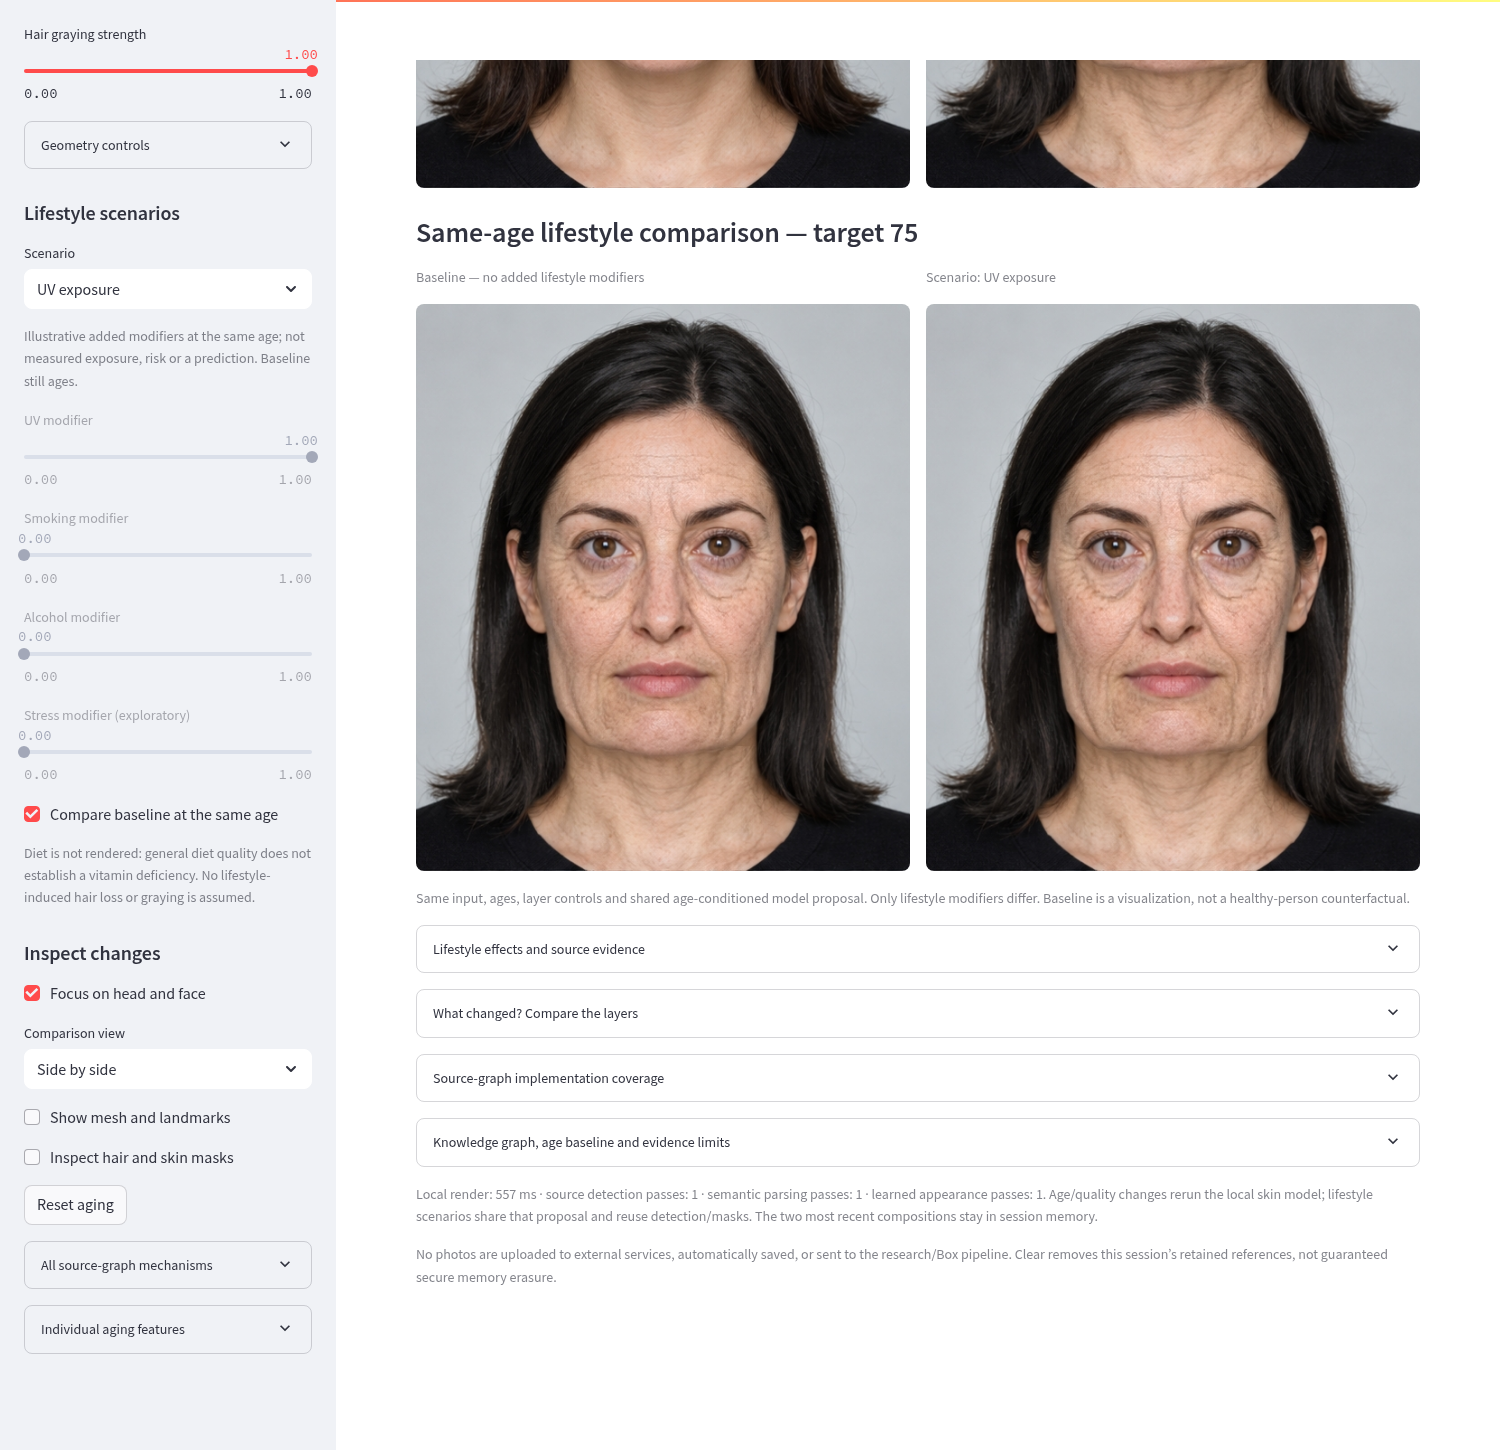
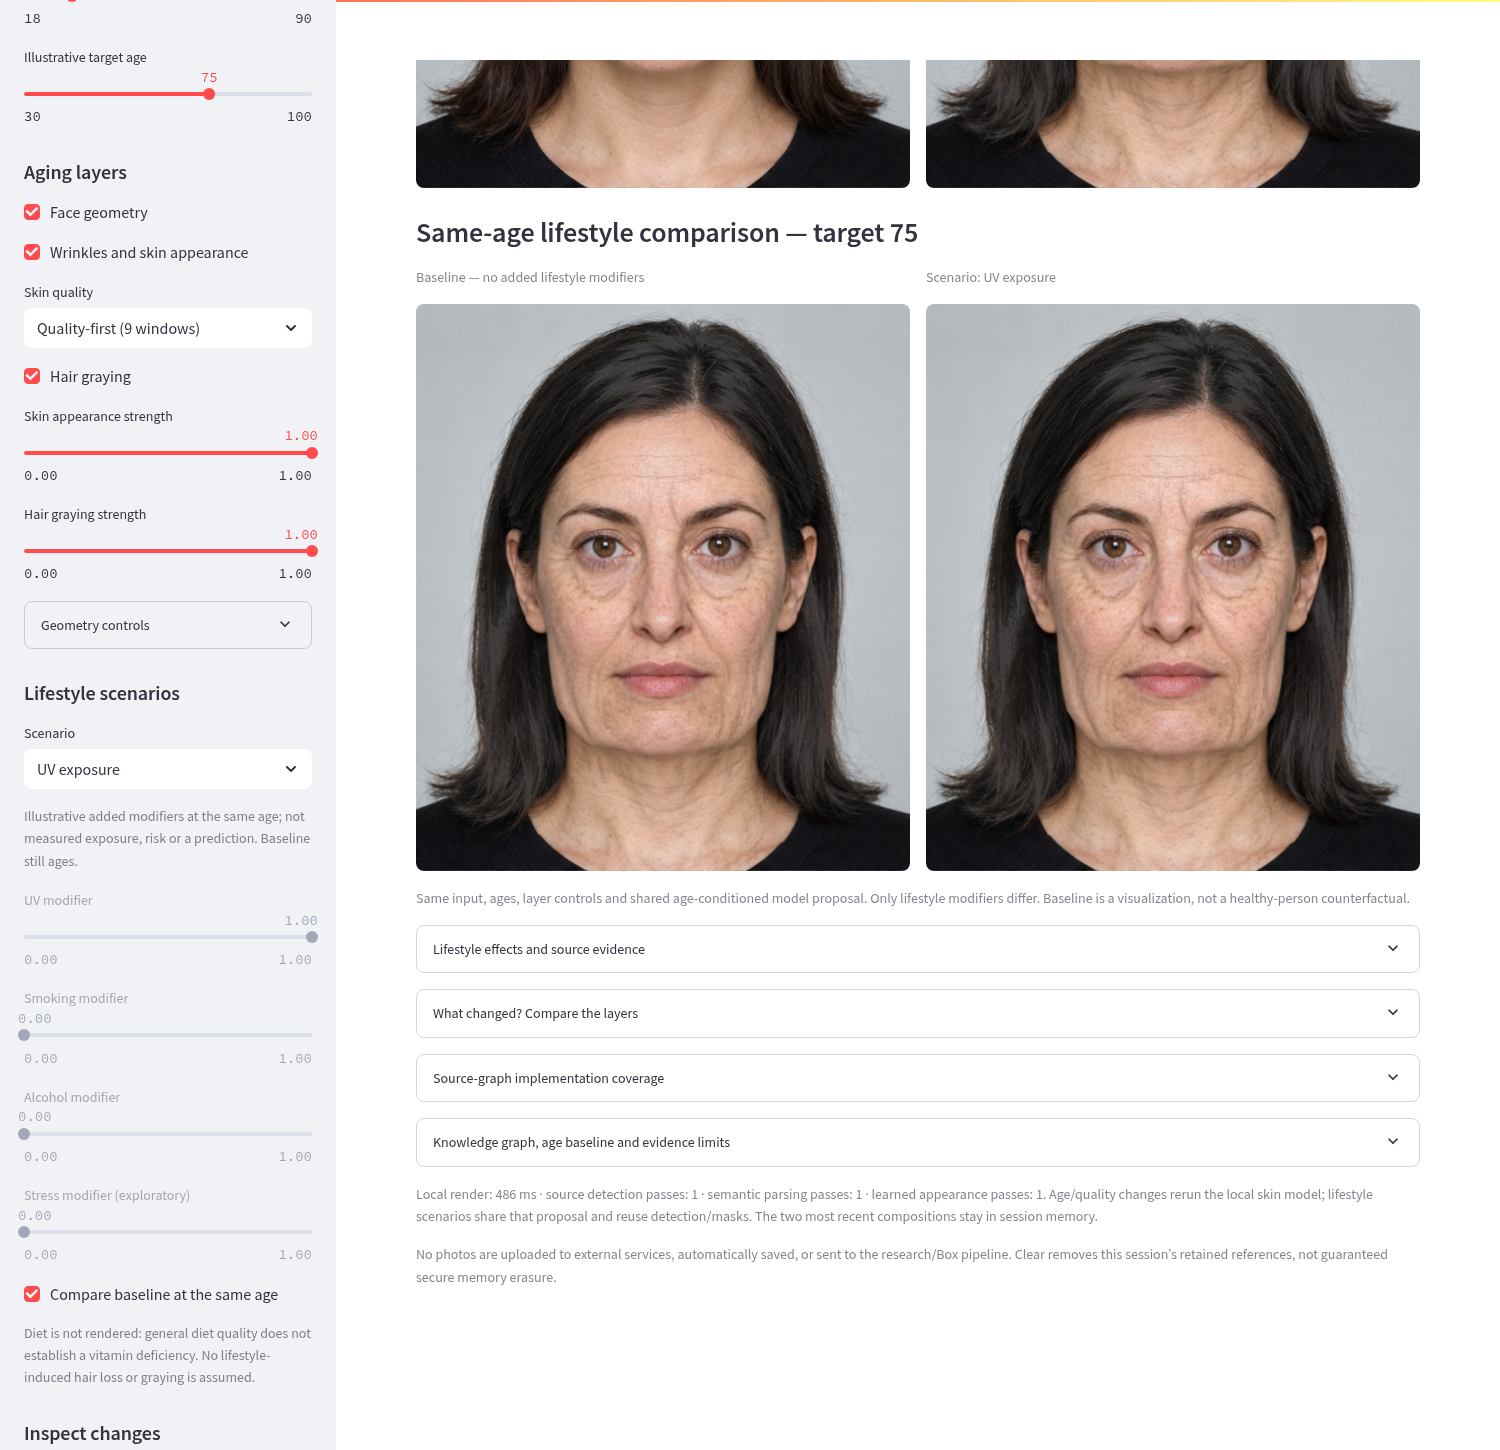
Refine ash-gray hair and soften stacked skin aging artifacts

diff --git a/experiments/geometry_renderer/mechanism_layers.py b/experiments/geometry_renderer/mechanism_layers.py
@@ -41,7 +41,7 @@ def volume_displacement(points,face_count,plan):
     return delta
 
 
-def render_surface(image,points,plan,skin_mask=None):
+def render_surface(image,points,plan,skin_mask=None,*,learned_detail=False):
     mask=skin_region_mask(image.shape,points)
     if skin_mask is not None: mask*=np.clip(skin_mask,0,1)
     if not mask.any(): return image.copy(),{'operators':{},'mode':'explicit_surface_proxies'}
@@ -56,7 +56,11 @@ def render_surface(image,points,plan,skin_mask=None):
         before=out.copy();out=np.clip(out+change*a[...,None],0,255)
         operators[name]={'features':list(ids),'changed_pixels':int(np.any(np.rint(out)!=np.rint(before),axis=2).sum()),
           'interpretation':'authored phenotype proxy, not clinical severity'}
-    strength=score(plan,'under_eye_circles')
+    # A learned proposal already contains texture and eye shading. Avoid
+    # stacking synthetic grain/contrast and another full eye shadow over it.
+    texture_gain=.25 if learned_detail else 1.
+    eye_gain=.55 if learned_detail else 1.
+    strength=score(plan,'under_eye_circles')*eye_gain
     eye=sum(gauss(p[i]+[0,fh*.045],.105,.035) for i in (145,374))
     apply('under_eye_circles',-eye[...,None]*np.array([13,14,10])*strength,('under_eye_circles',))
     rng=np.random.default_rng(9817)
@@ -71,7 +75,7 @@ def render_surface(image,points,plan,skin_mask=None):
     noise=rng.normal(0,1,lum.shape).astype(np.float32)
     grain=cv2.GaussianBlur(noise,(0,0),.55)-cv2.GaussianBlur(noise,(0,0),2)
     tex=max(score(plan,n) for n in SURFACE_GROUPS['surface_texture'])
-    apply('surface_texture',np.repeat((detail*.28+grain*2.8)[...,None],3,axis=2)*tex,SURFACE_GROUPS['surface_texture'])
+    apply('surface_texture',np.repeat((detail*.28+grain*2.8)[...,None],3,axis=2)*tex*texture_gain,SURFACE_GROUPS['surface_texture'])
     dull=score(plan,'dull_skin_tone')
     apply('dullness',((lum[...,None]-roi)*.10-2)*dull,('dull_skin_tone',))
     vascular=max(score(plan,n) for n in SURFACE_GROUPS['vascular'])
@@ -87,6 +91,7 @@ def render_surface(image,points,plan,skin_mask=None):
     apply('vascular',(cheeks*.25+vessel)[...,None]*np.array([9,-3,-3])*vascular,SURFACE_GROUPS['vascular'])
     result=image.copy();result[y0:y1,x0:x1]=np.rint(out).clip(0,255).astype(np.uint8)
     return result,{'operators':operators,'mode':'explicit_surface_proxies',
+      'learned_detail_present':bool(learned_detail),'texture_gain':texture_gain,'eye_gain':eye_gain,
       'nodular_elastosis_representation':'coarse_surface_proxy_not_nodules'}
 
 

diff --git a/experiments/geometry_renderer/iterate_naturalness.py b/experiments/geometry_renderer/iterate_naturalness.py
@@ -13,7 +13,7 @@ from hashlib import sha256
 def main():
     parser=argparse.ArgumentParser(description=__doc__)
     parser.add_argument('--name',required=True)
-    parser.add_argument('--reference',choices=('v03','v040'),default='v03')
+    parser.add_argument('--reference',choices=('v03','v040','v041'),default='v03')
     args=parser.parse_args()
     if not args.name.replace('_','').replace('-','').isalnum():parser.error('simple experiment name required')
     import cv2,numpy as np
@@ -29,7 +29,7 @@ def main():
     cache=Path(os.environ.get('AVATAR_SYNTHETIC_CACHE',str(Path.home()/'.cache/avatar/synthetic-iterations')));cache.mkdir(parents=True,exist_ok=True)
     output=root/'validation/naturalness_iterations'/args.name;output.mkdir(parents=True,exist_ok=True)
     sheet=Image.new('RGB',(1536,64+560*4),'white');draw=ImageDraw.Draw(sheet);font=ImageFont.load_default(size=22)
-    reference_label='v0.4.0 released' if args.reference=='v040' else 'v0.3 reference'
+    reference_label={'v03':'v0.3 reference','v040':'v0.4.0 released','v041':'v0.4.1 previous'}[args.reference]
     for x,title in enumerate(('Synthetic input',reference_label,'Current candidate')):draw.text((x*512+10,18),title,fill='black',font=font)
     report={'experiment':args.name,'reference':args.reference,'target':75,'source_age':30,'samples':[],
         'source_code_sha256':{n:sha256((root/n).read_bytes()).hexdigest() for n in ('hair_layers.py','mechanism_layers.py','skin_layers.py','pipeline.py')}}
@@ -44,7 +44,7 @@ def main():
         result=render_local_aging(prepared,regions,30,75,lifestyle={'uv_exposure':0.,'smoking':0.},learned_proposal=proposal)
         bounds=head_crop_bounds(prepared);before=crop_view(prepared.image,bounds);after=crop_view(result.image,bounds)
         Image.fromarray(after).save(output/f'{item["id"]}_age75.png')
-        reference_dir='validation/naturalness_iterations/source_locks_D' if args.reference=='v040' else 'validation/synthetic_v03'
+        reference_dir={'v03':'validation/synthetic_v03','v040':'validation/naturalness_iterations/source_locks_D','v041':'validation/naturalness_iterations/hair_review_v041'}[args.reference]
         reference=np.asarray(Image.open(root/reference_dir/f'{item["id"]}_age75.png').convert('RGB'))
         row=64+index*560
         for column,pixels in enumerate((before,reference,after)):

diff --git a/experiments/geometry_renderer/hair_layers.py b/experiments/geometry_renderer/hair_layers.py
@@ -207,7 +207,7 @@ def gray_hair(image: np.ndarray, mask: np.ndarray, strength: float, *, seed: int
     feather=max(3.,min(10.,min(image.shape[:2])*.012))
     core=support & (distance>feather+2) & (mask>.5)
     if core.sum()<32:
-        metrics.update(mode='conservative_tonal_gray',reason='no_reliable_hair_interior')
+        metrics.update(mode='shadow_preserving_ash_gray',reason='no_reliable_hair_interior')
         return image.copy(),metrics
     low,high=np.percentile(lum[core],[15,50])
     cutoff=float(high)+max(18.,float(high-low)*2.)
@@ -217,16 +217,16 @@ def gray_hair(image: np.ndarray, mask: np.ndarray, strength: float, *, seed: int
     confidence=np.clip((mask-.5)/.10,0,1)
     edge=np.clip((distance-1)/feather,0,1)
     alpha=confidence*edge*brightness_gate*.72*float(strength)
-    # Preserve source luminance, shadows and strands. Maximum target lift12
-    # levels (and effective lift<9); no white paint, noise or new strand texture.
-    silver=np.clip(lum+np.minimum(lum*.12,12),0,255)
+    # A smooth saturating lift makes dark hair visibly ash-gray without
+    # selecting bright patches. Black shadows stay black; no new strands/noise.
+    silver=np.clip(lum+32*(-np.expm1(-lum/25)),0,255)
     neutral=np.repeat(silver[...,None],3,axis=2)
     result=np.rint(np.clip(rgb*(1-alpha[...,None])+neutral*alpha[...,None],0,255)).astype(np.uint8)
     result[~support]=image[~support]
-    metrics.update(mode='conservative_tonal_gray',
+    metrics.update(mode='shadow_preserving_ash_gray',
         retained_source_fraction=float(np.mean(np.all(result[support]==image[support],axis=1))),
         protected_bright_pixels=int(np.sum(support & (brightness_gate==0))),
-        feather_pixels=float(feather),max_luminance_lift=9.,
+        feather_pixels=float(feather),max_luminance_lift=24.,
         selection_note='Conservative source-tone neutralization; not follicle synthesis or a measured gray-hair percentage.')
     metrics.update(applied=bool(np.any(result!=image)),
         mean_change=float(np.abs(result.astype(np.float32)-rgb)[support].mean()),

diff --git a/experiments/geometry_renderer/tests/test_lifestyle.py b/experiments/geometry_renderer/tests/test_lifestyle.py
@@ -93,3 +93,20 @@ def test_identity_and_disabled_layers_win_over_scenario(synthetic,values):
     off=render_local_aging(synthetic,None,30,75,lifestyle=values,enabled_layers=(),learned_proposal=proposal)
     np.testing.assert_array_equal(equal.image,synthetic.image)
     np.testing.assert_array_equal(off.image,synthetic.image)
+
+
+def test_learned_surface_avoids_stacking_full_procedural_grain(synthetic):
+    from experiments.geometry_renderer.mechanism_layers import render_surface,SURFACE_GROUPS
+    from experiments.geometry_renderer.skin_layers import skin_region_mask
+    plan=build_age_plan(30,75)
+    for name,f in plan['features'].items():
+        f['score']=1. if name in SURFACE_GROUPS['surface_texture'] else 0.
+    y,x=np.indices(synthetic.image.shape[:2])
+    image=np.repeat((80+((x+y)%2)*70)[...,None],3,axis=2).astype(np.uint8)
+    full,_=render_surface(image,synthetic.points,plan)
+    light,metrics=render_surface(image,synthetic.points,plan,learned_detail=True)
+    mask=skin_region_mask(image.shape,synthetic.points)>0
+    a=np.abs(full.astype(float)-image)[mask].mean()
+    b=np.abs(light.astype(float)-image)[mask].mean()
+    assert a>0 and b<a*.4
+    assert metrics['texture_gain']==.25 and metrics['eye_gain']==.55

diff --git a/experiments/geometry_renderer/tests/test_hair_layers.py b/experiments/geometry_renderer/tests/test_hair_layers.py
@@ -69,7 +69,7 @@ def test_deterministic_strands_reduce_chroma_and_preserve_contrast(synthetic_hai
     assert np.corrcoef(old_detail[mask>0],new_detail[mask>0])[0,1]>.75
     retained=np.all(a[mask>0]==image[mask>0],axis=1).mean()
     assert 0<retained<.5  # feathered boundary is protected
-    assert np.max(new_lum-old_lum)<9.5  # no white-paint luminance lift
+    assert np.max(new_lum-old_lum)<24.5  # no white-paint luminance lift
     assert new_lum.max()<245
 
 @pytest.mark.parametrize('strength',[-.1,1.1,float('nan')])
@@ -163,3 +163,13 @@ def test_thin_flyaway_mask_is_left_unchanged_without_a_reliable_interior():
     out,metrics=gray_hair(image,mask,1)
     np.testing.assert_array_equal(out,image)
     assert not metrics['applied']
+
+
+def test_dark_gray_hair_gets_visible_lift_but_black_shadows_remain_black():
+    image=np.full((64,64,3),40,np.uint8);mask=np.ones((64,64),np.float32)
+    out,metrics=gray_hair(image,mask,1)
+    assert 12<float(out.mean()-image.mean())<24.5
+    black=np.zeros_like(image)
+    unchanged,_=gray_hair(black,mask,1)
+    np.testing.assert_array_equal(unchanged,black)
+    assert metrics['max_luminance_lift']==24.

diff --git a/experiments/geometry_renderer/skin_layers.py b/experiments/geometry_renderer/skin_layers.py
@@ -327,7 +327,9 @@ def _render_learned_skin(image: np.ndarray, p: np.ndarray, plan: dict,
     # No hand-authored crease paths run in this learned transfer.
     fine = residual-cv2.GaussianBlur(residual,(0,0),.9)
     lifestyle_gain = regional_gain(image.shape,p,plan['features'])[y0:y1,x0:x1]
-    transferred = np.clip((residual-fine*.4)*lifestyle_gain,-55,55)
+    # Smoothly limit deep residual extremes rather than clipping them into
+    # harsh dark creases. Keep broad shape cues; reduce fine papery contrast.
+    transferred = 45*np.tanh((residual-fine*.6)*lifestyle_gain/45)
     metadata['lifestyle_gain_max'] = float(lifestyle_gain.max())
     metadata['lifestyle_localization'] = 'Authored regional gain on shared age proposal, not neural feature attribution.'
     edited_lab = source_lab.copy()

diff --git a/experiments/geometry_renderer/app.py b/experiments/geometry_renderer/app.py
@@ -15,8 +15,8 @@ from experiments.geometry_renderer.comparison import crop_view,difference_view,h
 from experiments.geometry_renderer.session import DemoSession
 from experiments.geometry_renderer.lifestyle import PRESETS
 
-st.set_page_config(page_title='AVATAR Local Aging v0.4.1',layout='wide')
-st.title('AVATAR Local Aging v0.4.1')
+st.set_page_config(page_title='AVATAR Local Aging v0.4.2',layout='wide')
+st.title('AVATAR Local Aging v0.4.2')
 st.caption('Age baseline → face geometry + learned skin appearance + segmented gray hair. All photo processing stays on this computer.')
 st.warning('Illustrative aging visualization. Target age is a control, not a calibrated prediction of how this person will look.')
 

diff --git a/experiments/geometry_renderer/pipeline.py b/experiments/geometry_renderer/pipeline.py
@@ -102,7 +102,8 @@ def render_local_aging(prepared: PreparedFace, regions: dict | None, current_age
         skin_image,skin_metrics = geometry_image.copy(),{'enabled':False}
     surface_metrics={'operators':{}}
     if 'skin' in enabled:
-        skin_image,surface_metrics=render_surface(skin_image,destination,skin_plan,warped_regions.get('skin'))
+        skin_image,surface_metrics=render_surface(skin_image,destination,skin_plan,warped_regions.get('skin'),
+            learned_detail=learned_proposal is not None)
     skin_ms = (perf_counter()-stage_start)*1000
     stage_start = perf_counter()
     hair_mask = warped_regions.get('hair',np.zeros((h,w),np.float32))

diff --git a/experiments/geometry_renderer/validation/naturalness_iterations/balanced_v042/README.md b/experiments/geometry_renderer/validation/naturalness_iterations/balanced_v042/README.md
@@ -1,0 +1,47 @@
+# v0.4.2 matched hair and skin refinement
+
+Four hash-pinned fictional inputs; identical30→75 age controls, ultra proposal,
+geometry.65, skin/hair1, no lifestyle modifiers and no per-image tuning. Existing
+neural proposals are reused explicitly; geometry/skin/surface/hair composition was
+rerun. Iteration times exclude age-model inference and are not laptop benchmarks.
+
+![Input / v0.4.1 / v0.4.2](contact-sheet.jpg)
+
+![Hair detail](hair-closeups.jpg)
+
+## Selected changes
+
+- Shadow-preserving, smooth ash-gray tonal lift, capped below24 effective
+  luminance levels before rounding. Retains the v0.4.1 boundary and bright-outlier
+  guard; no random patches, invented strands or highlight selection. Black
+  shadows remain black. More visible on dark hair than the<9-level hotfix.
+- Learned skin residual fine-detail attenuation increases from40% to60% and a
+  smooth45-level tanh limiter reduces extreme creases instead of hard clipping.
+- When learned detail is present, added procedural texture uses25% and extra
+  eye-shadow proxy55% of the previous gains. Avoids stacking a full grain/
+  source-detail boost and another full eye shadow on an already-aged proposal.
+  Procedural-only diagnostics retain their original behavior.
+
+Manual inspection finds a softer/less dry surface and more visible diffuse gray
+than v0.4.1, without returning to the older bright selected patches. Effects remain
+modest; hair can look matte/desaturated, eye regions can still look tired, and the
+face still looks synthetic in places. This does not establish natural elderly
+hair, exact75-year appearance, identity fidelity or clinical accuracy. Original
+mask mistakes, messy fringe, lighting and real-world generalization remain risks.
+No user/participant portrait was used as a fixture or published artifact.
+
+All4 mesh safety scales1.0. Full160 experiment tests passed, including deliberately
+leaky warm wall/forehead-mask protection, unchanged uncertain flyaways, exact
+zero-strength/age identity, bounded visible dark-hair lift, black-shadow protection,
+reduced learned/procedural grain stacking and unchanged lifestyle gates. Existing
+API tests:3 passed. Browser regression checks age/scenario caching and reset/clear.
+
+Reproduce:
+
+```bash
+AVATAR_SYNTHETIC_CACHE=/tmp/avatar-synthetic-cache python -m experiments.geometry_renderer.iterate_naturalness --name review --reference v041
+python -m pytest experiments/geometry_renderer/tests -q
+```
+
+Original graph CSVs, research/consent/IRB/Box/deployment, model assets and runtime
+dependencies are unchanged. This is a repository iteration, not a new hosted app.

diff --git a/experiments/geometry_renderer/README.md b/experiments/geometry_renderer/README.md
@@ -1,4 +1,4 @@
-# AVATAR mesh-first local aging v0.4.1
+# AVATAR mesh-first local aging v0.4.2
 
 Local CPU prototype: repository knowledge graph + explicit age baseline, fixed-border
 mesh geometry, optional age-conditioned skin residual, and segmented hair graying.
@@ -103,7 +103,7 @@ The FRAN model is a124MB public ONNX conversion; no GPL FaceStudio code is used.
 
 ![Generated fictional input, original and illustrative local aging](screenshots/local-aging-ui.png)
 
-Latest verification: **158 experiment tests passed**, plus3 existing API tests.
+Latest verification: **160 experiment tests passed**, plus3 existing API tests.
 Browser regression additionally verifies same-age UV/smoking comparison with one
 shared model proposal, reset/clear and zero external requests or browser errors.
 Historical detail-quality CPU evidence: the mirrored-parser/detail run took **8.878s** for the
@@ -197,3 +197,12 @@ The warm-background/leaky-mask regression uses authored color blocks, not the
 user's portrait. [Regression and four fictional inputs](validation/naturalness_iterations/hair_hotfix_v041/)
 include the final source digests. Full suite:158 experiment tests plus3 existing
 API tests passed. No new model or dependency.
+
+## v0.4.2 hair and skin refinement
+
+[Matched input / v0.4.1 / v0.4.2 comparison and limits](validation/naturalness_iterations/balanced_v042/README.md).
+Current hair uses a stronger smooth shadow-preserving ash-gray lift with the
+existing bright-outlier/boundary guards. Skin has less fine residual contrast,
+softly limited extreme creases, and reduced extra grain/eye shadow when learned
+detail is already present. No invented follicles or clinical calibration.
+Version title is v0.4.2. No new model/dependency, deployment or research changes.

diff --git a/experiments/geometry_renderer/validation/naturalness_iterations/README.md b/experiments/geometry_renderer/validation/naturalness_iterations/README.md
@@ -1,5 +1,7 @@
 # Naturalness iterations — fictional fixtures only
 
+**Current v0.4.2:** [hair/skin refinement and matched v0.4.1 comparison](balanced_v042/README.md).
+
 **v0.4.1 update:** the historical D hair algorithm is superseded by conservative
 tonal gray with bright-outlier and boundary protection. See
 [hotfix comparison](hair_hotfix_v041/contact-sheet.jpg) and
